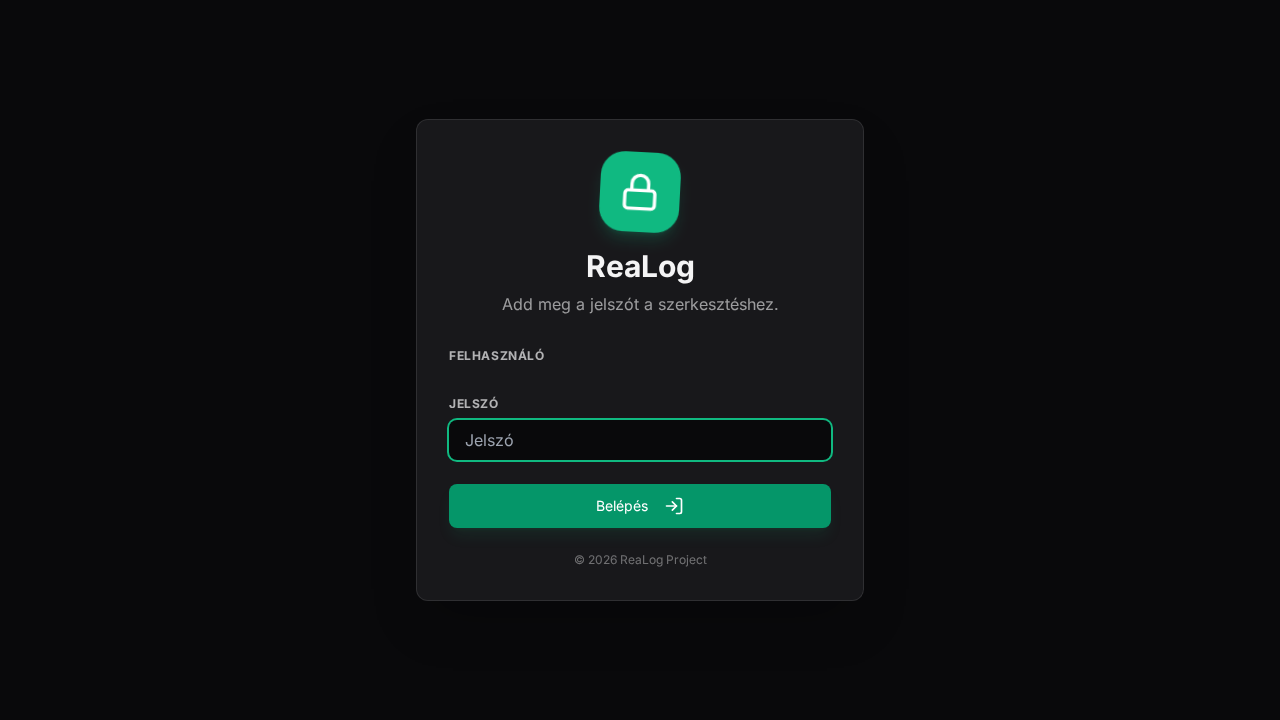
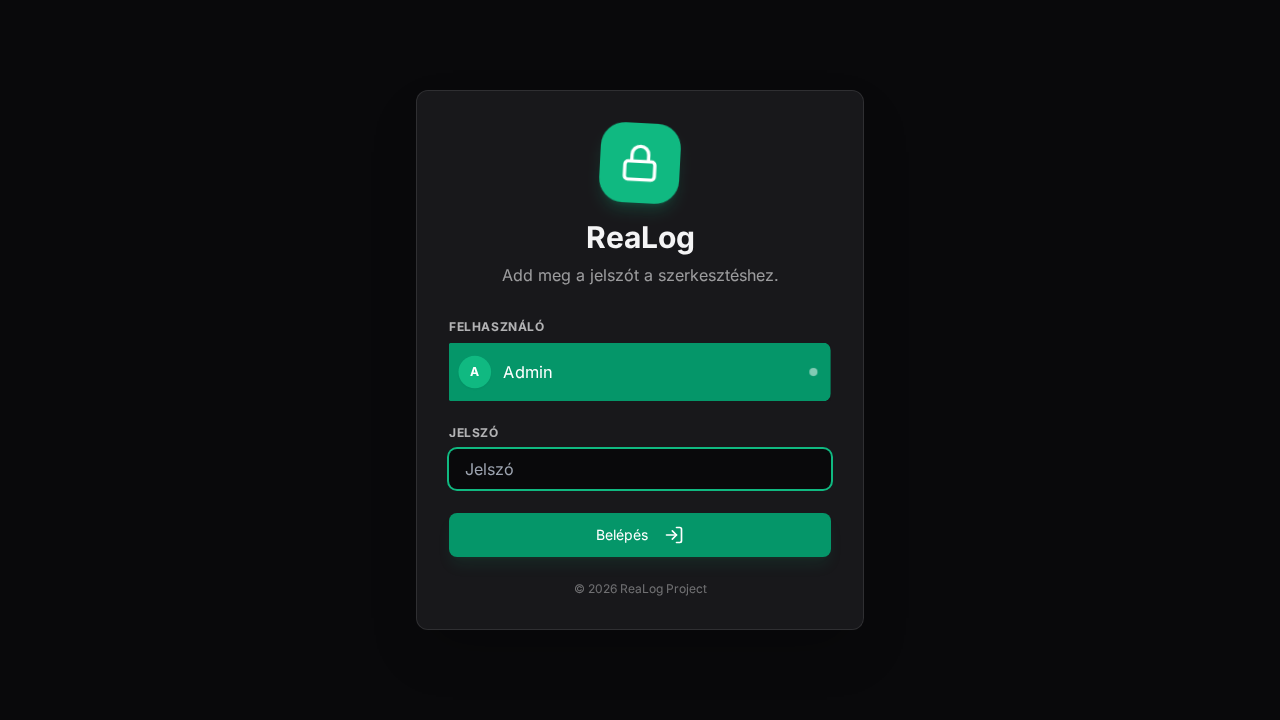
Implement multi-user dashboard with widgets and strict auth

Changed region(s): [[0.3438, 0.1528, 0.6562, 0.825]]

diff --git a/src/components/views/LoginScreen.tsx b/src/components/views/LoginScreen.tsx
@@ -17,6 +17,13 @@ export const LoginScreen: React.FC<LoginScreenProps> = ({ users, onLogin, themeC
     const [password, setPassword] = useState('');
     const [error, setError] = useState('');
 
+    // Update selection if users load asynchronously (e.g. migration)
+    React.useEffect(() => {
+        if (!selectedUserId && users.length > 0) {
+            setSelectedUserId(users[0].id);
+        }
+    }, [users, selectedUserId]);
+
     const handleLogin = (e: React.FormEvent) => {
         e.preventDefault();
         setError('');
@@ -95,6 +102,7 @@ export const LoginScreen: React.FC<LoginScreenProps> = ({ users, onLogin, themeC
                     <div>
                         <label className="block text-xs font-bold uppercase tracking-wider opacity-70 mb-2">{t('app.password')}</label>
                         <Input
+                            data-testid="password-input"
                             type="password"
                             value={password}
                             onChange={(e: any) => setPassword(e.target.value)}
@@ -112,7 +120,7 @@ export const LoginScreen: React.FC<LoginScreenProps> = ({ users, onLogin, themeC
                         </div>
                     )}
 
-                    <Button type="submit" themeClasses={themeClasses} className="w-full py-3 text-lg shadow-lg shadow-emerald-500/10">
+                    <Button data-testid="login-button" type="submit" themeClasses={themeClasses} className="w-full py-3 text-lg shadow-lg shadow-emerald-500/10">
                         {t('app.login_btn')} <LogIn className="w-5 h-5 ml-2" />
                     </Button>
                 </form>

diff --git a/src/langs/hu.ts b/src/langs/hu.ts
@@ -313,6 +313,7 @@ const hu = {
         password: 'Jelszó',
         login_btn: 'Belépés',
         login_subtitle: 'Add meg a jelszót a szerkesztéshez.',
+        user_not_found: 'Felhasználó nem található',
         cloud_tags: 'Címkefelhő',
         no_tags: 'Nincsenek címkék. Használd a #szó formátumot a bejegyzéseidben!',
         entries_with_tag: 'Bejegyzések ezzel a címkével:',

diff --git a/src/constants.ts b/src/constants.ts
@@ -26,6 +26,16 @@ export const DEFAULT_WIDGETS: WidgetConfig[] = [
 ];
 
 export const INITIAL_DATA: AppData = {
+  users: [
+      {
+          id: 'admin-user',
+          name: 'Admin',
+          password: 'grind',
+          isAdmin: true,
+          color: '#10b981',
+          avatar: 'A'
+      }
+  ],
   questions: DEFAULT_QUESTIONS,
   habits: DEFAULT_HABITS,
   entries: SAMPLE_ENTRIES,

diff --git a/verification/verify_http.py b/verification/verify_http.py
@@ -7,10 +7,14 @@ from playwright.sync_api import sync_playwright
 PORT = 8000
 
 def start_server():
+    socketserver.TCPServer.allow_reuse_address = True
     Handler = http.server.SimpleHTTPRequestHandler
-    with socketserver.TCPServer(("", PORT), Handler) as httpd:
-        print(f"Serving at port {PORT}")
-        httpd.serve_forever()
+    try:
+        with socketserver.TCPServer(("", PORT), Handler) as httpd:
+            print(f"Serving at port {PORT}")
+            httpd.serve_forever()
+    except OSError as e:
+        print(f"Server error: {e}")
 
 def verify_dashboard():
     # Start server in background
@@ -22,6 +26,10 @@ def verify_dashboard():
         browser = p.chromium.launch(headless=True)
         page = browser.new_page()
 
+        # Capture console logs
+        page.on("console", lambda msg: print(f"BROWSER CONSOLE: {msg.text}"))
+        page.on("pageerror", lambda err: print(f"BROWSER ERROR: {err}"))
+
         # Navigate to localhost
         page.goto(f"http://localhost:{PORT}/index.html")
 
@@ -30,12 +38,33 @@ def verify_dashboard():
             page.wait_for_selector("text=Rendszer indítása...", state="detached", timeout=20000)
             print("Loader disappeared.")
 
-            # Check for Dashboard content
-            page.wait_for_selector("text=Szia,", timeout=10000)
-            print("Found greeting.")
+            # --- Login Flow ---
+            # Wait for login screen explicitly
+            try:
+                page.wait_for_selector("text=ReaLog", timeout=3000)
+                print("Login Screen detected.")
 
-            page.wait_for_selector("text=Közösségi Üzenőfal", timeout=10000)
+                print("Entering password...")
+                page.fill("input[data-testid='password-input']", "grind")
+
+                page.wait_for_timeout(500)
+
+                print("Submitting login form via JS...")
+                page.evaluate("document.querySelector('form').requestSubmit()")
+            except Exception as e:
+                print(f"Login screen skipped or not found: {e}")
+
+
+            # --- Dashboard Verification ---
+            print("Waiting for dashboard...")
+            page.wait_for_selector("text=Szia,", timeout=10000)
+            print("Found greeting (Dashboard loaded).")
+
+            page.wait_for_selector(":has-text('Közösségi Üzenőfal')", timeout=10000)
             print("Found Social Feed.")
+
+            if page.is_visible(":has-text('Statisztika')"):
+                 print("Found Stats widget.")
 
             # Take success screenshot
             page.screenshot(path="verification/dashboard_http_success.png")
@@ -44,7 +73,6 @@ def verify_dashboard():
         except Exception as e:
             print(f"Verification failed: {e}")
             page.screenshot(path="verification/dashboard_http_failed.png")
-            # Dump console logs if possible
 
         browser.close()
 
